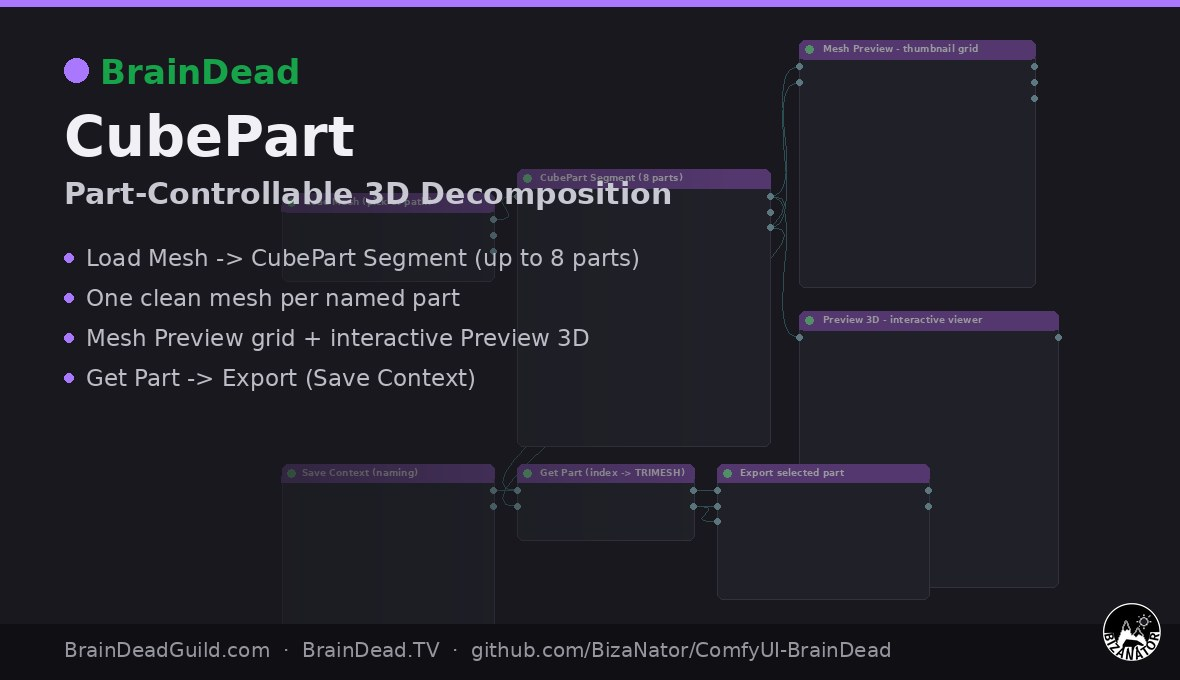
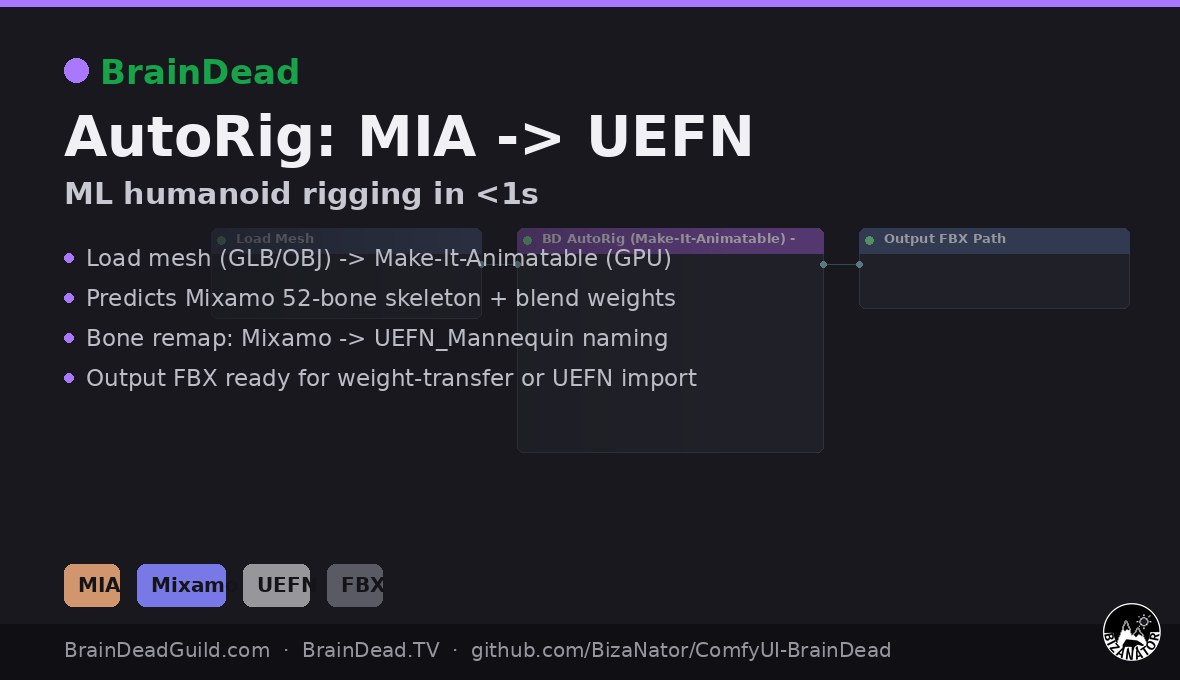
feat(thumbnails): add BD spec thumbnails for clothing_remover and autorig workflows
Adds CONFIGS + GALLERY_SLUG entries for the three un-thumbnailed templates
and regenerates all 21 thumbnails to pick up the new branded cards.

diff --git a/tools/regen_all_thumbnails.py b/tools/regen_all_thumbnails.py
@@ -34,6 +34,9 @@ GALLERY_SLUG = {
     "BD-face_segmentation": "faceseg", "BD-channel_operations": "channels", "BD-mask_tools": "masks", "BD-pbr_from_image": "pbr",
     "BD-game_engine_packing": "packing", "BD-atlas_flipbook": "flipbook",
     "BD-trellis2_unreal_fbx": "unrealfbx", "BD-isolate_part": "isolatepart",
+    "BD-clothing_remover": "clothingremover",
+    "BD-autorig_mia_to_uefn": "autorignuefn",
+    "BD-autorig_mia_uefn_full": "autoriguefnfull",
 }
 
 # name (== <name>.json) -> card config. Background auto-draws from the sibling json.
@@ -154,6 +157,29 @@ CONFIGS = {
                     "layout JSON = per-cell UV rects for the engine",
                     "Or wire packed textures into image_1..image_8"],
         "chips": ["grid", "strip", "UV", "flipbook"]},
+    "BD-clothing_remover": {
+        "title": "Clothing Remover", "subtitle": "Qwen Image Edit + ControlNet pose guidance",
+        "bullets": ["Load Image -> Sapiens2 Pose (optional) -> ControlNet",
+                    "Qwen Image Edit Plus — prompt-driven clothing swap / removal",
+                    "Switch: use pose control or run unguided",
+                    "LoRA stack (detail + style) + CFGNorm quality pass",
+                    "KSampler -> VAEDecode -> Save"],
+        "chips": ["Qwen", "ControlNet", "LoRA", "pose"]},
+    "BD-autorig_mia_to_uefn": {
+        "title": "AutoRig: MIA -> UEFN", "subtitle": "ML humanoid rigging in <1s",
+        "bullets": ["Load mesh (GLB/OBJ) -> Make-It-Animatable (GPU)",
+                    "Predicts Mixamo 52-bone skeleton + blend weights",
+                    "Bone remap: Mixamo -> UEFN_Mannequin naming",
+                    "Output FBX ready for weight-transfer or UEFN import"],
+        "chips": ["MIA", "Mixamo", "UEFN", "FBX"]},
+    "BD-autorig_mia_uefn_full": {
+        "title": "AutoRig: Full UEFN Pipeline", "subtitle": "Mesh -> genuine UEFN skeleton (2 steps)",
+        "bullets": ["Step 1: BD AutoRig MIA — ML Mixamo rigging (<1s GPU)",
+                    "Step 2: BD AutoRig UEFN — Blender Data Transfer",
+                    "Bundled SKM_UEFN_Mannequin as weight donor",
+                    "Scale match + align + bake + transfer + bind",
+                    "Output FBX importable directly into UEFN / Fortnite"],
+        "chips": ["MIA", "UEFN", "Blender", "FBX"]},
 }
 
 